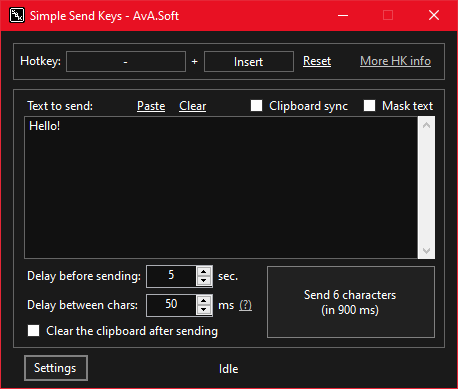
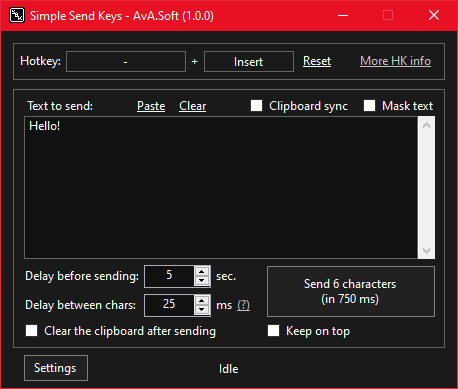
Updating readme and screenshot

diff --git a/README.md b/README.md
@@ -44,12 +44,14 @@ Free to use.
 
 # Others
 If you like this app, please support it by giving it a star on GitHub. Thanks!<br>
-The setup is built with [Advanced Installer](https://www.advancedinstaller.com). You can find the project in the `Assets` folder.
+The setup is built with [Advanced Installer](https://www.advancedinstaller.com). You can find the project file in the `Assets` folder.<br>
+You can adjust the app's transparency by scrolling over the status bar (where it says "Idle").
 <br><br>
 
 # To do
-- Implement 'Block hotkey propagation' option/setting. (done)
-- Implement 'send' argument for other integrations. (done)
-- Implement 'Keep on top' option/setting.
+- <s>Implement 'Block hotkey propagation' option/setting.</s> (done)
+- <s>Implement 'send' argument for other integrations.</s> (done)
+- <s>Implement 'Keep on top' option/setting.</s> (done)
+- <s>Implement 'Transparency' feature.</s> (done)
 - Adding the possibility to send modifiers key.
 - Fix the UI size bug for the hotkey user controls.
